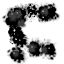
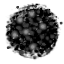
added particle system to main menu to spice things up

diff --git a/src/main/java/com/ccdr/labyrinth/menu/MenuJFXView.java b/src/main/java/com/ccdr/labyrinth/menu/MenuJFXView.java
@@ -29,6 +29,7 @@ import javafx.util.Duration;
 public final class MenuJFXView implements MenuView, JFXInputSource {
     private final Scene scene;
     private final ExpandCanvas canvas;
+    private final MenuParticleSystem menuPS;
     private Animation indexArrow;
     // variables used for resizing text elements
     private double listFontSize;
@@ -53,6 +54,7 @@ public final class MenuJFXView implements MenuView, JFXInputSource {
         this.canvas = new ExpandCanvas();
         this.scene = new Scene(new Group(this.canvas), MENU_BASE_COLOR);
         this.canvas.bind(this.scene);
+        this.menuPS = new MenuParticleSystem();
     }
 
     @Override
@@ -84,6 +86,8 @@ public final class MenuJFXView implements MenuView, JFXInputSource {
             recalculateFontSizes();
             context.setFill(MENU_BASE_COLOR);
             context.fillRect(0, 0, this.canvas.getWidth(), this.canvas.getHeight());
+            this.menuPS.update();
+            this.menuPS.draw(canvas);
             if (element.getParent() != null) {
                 drawHeader(context, element);
             }
@@ -144,13 +148,16 @@ public final class MenuJFXView implements MenuView, JFXInputSource {
     }
 
     private void drawLogo(final GraphicsContext context) {
+        context.save();
         final Image image = TypeImag.LOGO.getImage();
         final double logoWidth = this.logoSize * image.getWidth() / image.getHeight();
         final double xPos = this.canvas.getWidth() / 2 - logoWidth / 2;
         context.drawImage(image, xPos, this.padding, logoWidth, this.logoSize);
+        context.restore();
     }
 
     private void drawHeader(final GraphicsContext context, final MenuElement element) {
+        context.save();
         context.setFont(Font.font(this.headerFontSize));
         context.setTextBaseline(VPos.TOP);
         context.setTextAlign(TextAlignment.CENTER);
@@ -159,6 +166,7 @@ public final class MenuJFXView implements MenuView, JFXInputSource {
     }
 
     private void drawList(final GraphicsContext context, final MenuListElement listElement, final double startY) {
+        context.save();
         // draw the list elements below (only the name, not everything else)
         context.setTextAlign(TextAlignment.LEFT);
         context.setFont(Font.font(listFontSize));
@@ -170,9 +178,11 @@ public final class MenuJFXView implements MenuView, JFXInputSource {
             y += this.listFontSize;
         }
         context.fillText(">", this.padding, startY + interpolatedIndex * this.listFontSize);
-    }
+        context.restore();
+}
 
     private void drawChoice(final GraphicsContext context, final MenuChoiceElement<?> choiceElement) {
+        context.save();
         // draw choices like as if they were in a list like MenuListElement
         context.setTextAlign(TextAlignment.LEFT);
         context.setFont(Font.font(this.listFontSize));
@@ -183,18 +193,22 @@ public final class MenuJFXView implements MenuView, JFXInputSource {
             y += this.listFontSize;
         }
         context.fillText(">", this.padding, this.headerFontSize + this.padding + interpolatedIndex * this.listFontSize);
-    }
+        context.restore();
+}
 
     private void drawText(final GraphicsContext context, final MenuTextElement textElement) {
+        context.save();
         // draw additional description at the bottom
         context.setTextAlign(TextAlignment.CENTER);
         context.setTextBaseline(VPos.TOP);
         context.setFont(Font.font(descriptionFontSize));
         context.setFill(TEXT_FILL);
         context.fillText(textElement.getDescription(), this.canvas.getWidth() / 2, this.headerFontSize + this.padding);
-    }
+        context.restore();
+}
 
     private void drawHint(final GraphicsContext context) {
+        context.save();
         // draw tooltip at the bottom
         context.setFont(Font.font(this.hintFontSize));
         context.setTextBaseline(VPos.BOTTOM);
@@ -202,6 +216,7 @@ public final class MenuJFXView implements MenuView, JFXInputSource {
         context.setFill(TEXT_FILL);
         context.fillText("Enter: Confirm | Up/Down: Move cursor | Esc/Backspace: Go back",
             this.canvas.getWidth() / 2, this.canvas.getHeight());
+        context.restore();
     }
 
 }

diff --git a/src/main/java/com/ccdr/labyrinth/menu/MenuParticleSystem.java b/src/main/java/com/ccdr/labyrinth/menu/MenuParticleSystem.java
@@ -1,0 +1,118 @@
+package com.ccdr.labyrinth.menu;
+
+import java.util.HashSet;
+import java.util.Random;
+import java.util.Set;
+import java.util.stream.Collectors;
+
+import com.ccdr.labyrinth.Material;
+import com.ccdr.labyrinth.TypeImag;
+
+import javafx.scene.canvas.Canvas;
+import javafx.scene.canvas.GraphicsContext;
+import javafx.scene.image.Image;
+import javafx.scene.paint.Color;
+
+public class MenuParticleSystem {
+    private static final int PARTICLE_COUNT = 100;
+    private static final double BOX_HALF_WIDTH = 8;
+    private static final double BOX_HALF_HEIGHT = 6;
+    private static final double BOX_DEPTH = 20;
+    private static final double PARTICLE_MAX_SIZE = 50.0;
+    private static final double PARTICLE_MAX_SPEED = 0.01;
+
+    private Set<Particle> particles = new HashSet<>();
+    Random r = new Random();
+
+    public MenuParticleSystem(){
+        for (int i = 0; i < PARTICLE_COUNT; i++) {
+            this.particles.add(generateParticle());
+        }
+    }
+
+    Particle generateParticle(){
+        Material m = Material.values()[r.nextInt(Material.values().length)];
+        //from -BOX_WIDTH/2 to BOX_WIDTH/2
+        double x = r.nextDouble() * BOX_HALF_WIDTH * 2 - BOX_HALF_WIDTH;
+        //from -BOX_HEIGHT/2 to BOX_HEIGHT/2
+        double y = r.nextDouble() * BOX_HALF_HEIGHT * 2 - BOX_HALF_HEIGHT;
+        //from 0 to BOX_DEPTH
+        double z = r.nextDouble() * (BOX_DEPTH - 1) + 2;
+        double speed = r.nextDouble() * PARTICLE_MAX_SPEED;
+        return new Particle(m, x, y, z, speed);
+    }
+
+    void update(){
+        for (Particle particle : this.particles) {
+            particle.z -= particle.zSpeed;
+        }
+        this.particles = this.particles.stream()
+            .filter(particle -> particle.z >= 1)
+            .collect(Collectors.toSet());
+        for(int i = this.particles.size(); i< PARTICLE_COUNT; i++){
+            this.particles.add(generateParticle());
+        }
+    }
+
+    void draw(Canvas target){
+        final GraphicsContext context = target.getGraphicsContext2D();
+        double width = target.getWidth();
+        double height = target.getHeight();
+        context.save();
+        context.beginPath();
+        context.setStroke(Color.WHITESMOKE);
+        for (Particle particle : this.particles) {
+            Image i;
+            switch(particle.m){
+                case COAL:
+                    i = TypeImag.COAL.getImage();
+                    break;
+                case COPPER:
+                    i = TypeImag.COPPER.getImage();
+                    break;
+                case DIAMOND:
+                    i = TypeImag.DIAMOND.getImage();
+                    break;
+                case IRON:
+                    i = TypeImag.IRON.getImage();
+                    break;
+                case SILK:
+                    i = TypeImag.SILK.getImage();
+                    break;
+                case WOOD:
+                default:
+                    i = TypeImag.WOOD.getImage();
+                    break;
+            }
+            double viewportX = width / 2 + particle.x / BOX_HALF_WIDTH * width/2;
+            double viewportY = height / 2 + particle.y / BOX_HALF_HEIGHT * height/2;
+            double size = PARTICLE_MAX_SIZE / particle.z;
+            context.drawImage(i, viewportX - size/2, viewportY - size/2,size,size);
+        }
+
+        context.stroke();
+        context.restore();
+    }
+
+
+    private class Particle{
+        private Material m;
+        private double x;
+        private double y;
+        private double z;
+        private double zSpeed;
+
+        Particle(Material m, double x, double y, double z, double zSpeed){
+            this.m = m;
+            this.x = x;
+            this.y = y;
+            this.z = z;
+            this.zSpeed = zSpeed;
+        }
+
+        @Override
+        public String toString() {
+            return "Particle [m=" + m + ", x=" + x + ", y=" + y + ", z=" + z + ", zSpeed=" + zSpeed + "]";
+        }
+    }
+}
